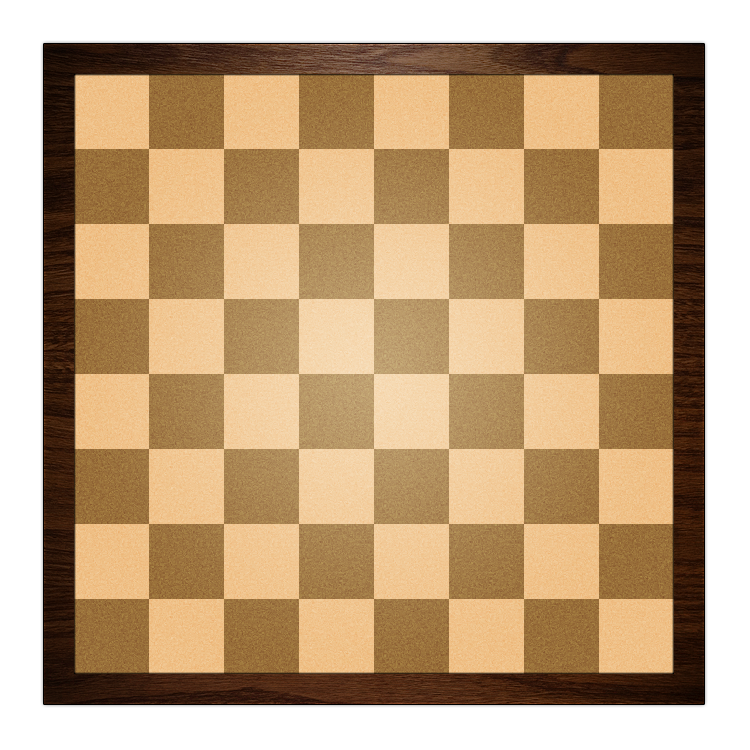
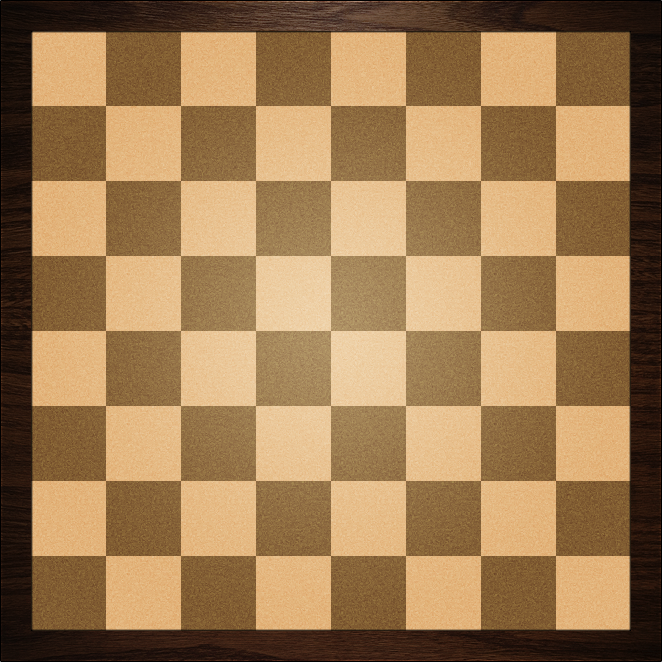
A little bit of styling

diff --git a/resources/style.css b/resources/style.css
@@ -287,40 +287,86 @@ body {
   color: #fff;
 }
 
-/* line 180, ../sass/style.scss */
-#board {
-  width: 750px;
-  height: 750px;
-  background: url("/resources/board-bg.png") 0px 0px no-repeat;
+/*
+    The game view
+*/
+/* line 188, ../sass/style.scss */
+.game .chat {
   position: absolute;
-  left: 50%;
-  top: 50%;
-  margin-top: -375px;
-  margin-left: -375px;
+  left: 0px;
+  top: 0px;
+  background: #9D9D9D;
+  bottom: 0px;
+  width: 300px;
+  height: 100%;
 }
-/* line 190, ../sass/style.scss */
-#board table {
-  margin-left: 75px;
+/* line 197, ../sass/style.scss */
+.game .chat .input {
+  position: absolute;
+  bottom: 10px;
+}
+/* line 203, ../sass/style.scss */
+.game #board {
+  position: absolute;
+  left: 300px;
+  height: 100%;
+  top: 0%;
+  right: 0%;
+}
+/* line 210, ../sass/style.scss */
+.game #board .wood {
+  position: relative;
+  left: 50%;
+  width: 600px;
+  height: 600px;
+  margin-left: -330px;
+  padding: 30px;
+  background: url("/resources/board-bg.png") 0px 0px no-repeat;
+}
+/* line 221, ../sass/style.scss */
+.game #waiting {
+  z-index: 1;
+  position: absolute;
+  width: 100%;
+  height: 100%;
+  top: 0px;
+  background: rgba(0, 0, 0, 0.5);
+}
+/* line 229, ../sass/style.scss */
+.game #waiting h1 {
+  text-align: center;
+  color: #fff;
+  font-size: 42px;
+  height: 200px;
+  width: 400px;
+  top: 50%;
+  left: 50%;
+  position: absolute;
+  margin-top: -100px;
+  margin-left: -200px;
 }
 
-/* line 195, ../sass/style.scss */
+/*
+    End of game view
+*/
+/* line 248, ../sass/style.scss */
 td, th {
   text-align: center;
   width: 75px;
   height: 75px;
 }
 
-/* line 201, ../sass/style.scss */
+/* line 254, ../sass/style.scss */
 .selected {
   background: green;
 }
 
-/* line 205, ../sass/style.scss */
+/* line 258, ../sass/style.scss */
 .movable {
   background: orange;
 }
 
-/* line 210, ../sass/style.scss */
+/* line 263, ../sass/style.scss */
 .hidden {
   display: none;
 }
@@ -328,7 +374,7 @@ td, th {
 /*
   forms 
 */
-/* line 218, ../sass/style.scss */
+/* line 271, ../sass/style.scss */
 .error_container {
   background: #b30a0a;
   margin: 20px 0px;
@@ -336,24 +382,24 @@ td, th {
   border: 2px solid black;
   color: white;
 }
-/* line 225, ../sass/style.scss */
+/* line 278, ../sass/style.scss */
 .error_container ul {
   text-align: left;
   padding-left: 20px;
   list-style: disc;
 }
 
-/* line 232, ../sass/style.scss */
+/* line 285, ../sass/style.scss */
 .no_errors {
   display: none;
 }
 
-/* line 236, ../sass/style.scss */
+/* line 289, ../sass/style.scss */
 .has_errors {
   display: block;
 }
 
-/* line 240, ../sass/style.scss */
+/* line 293, ../sass/style.scss */
 .button, input[type=submit] {
   width: auto;
   padding: 9px 15px;
@@ -369,44 +415,18 @@ td, th {
   -khtml-border-radius: 5px;
   border-radius: 5px;
 }
-/* line 250, ../sass/style.scss */
+/* line 303, ../sass/style.scss */
 .button:hover, input[type=submit]:hover {
   background: #617794;
 }
-/* line 254, ../sass/style.scss */
+/* line 307, ../sass/style.scss */
 .button:active, input[type=submit]:active {
   background: #6177CD;
 }
 
-/* line 259, ../sass/style.scss */
+/* line 312, ../sass/style.scss */
 .button {
   display: inline-block;
-}
-
-/*
-  Board styling 
-*/
-/* line 265, ../sass/style.scss */
-#waiting {
-  position: absolute;
-  width: 100%;
-  height: 100%;
-  top: 0px;
-  left: 0px;
-  background: rgba(0, 0, 0, 0.5);
-}
-/* line 273, ../sass/style.scss */
-#waiting h1 {
-  text-align: center;
-  color: #fff;
-  font-size: 42px;
-  height: 200px;
-  width: 400px;
-  top: 50%;
-  left: 50%;
-  position: absolute;
-  margin-top: -100px;
-  margin-left: -200px;
 }
 
 /*

diff --git a/sass/style.scss b/sass/style.scss
@@ -177,20 +177,73 @@ body {
     }
 }
 
-#board {
-    width: 750px;
-    height: 750px;
-    background: url("/resources/board-bg.png") 0px 0px no-repeat;
-    position: absolute;
-    left: 50%;
-    top: 50%;
-    margin-top: -375px;
-    margin-left: -375px;
+/*
+    The game view
+*/
+
+.game {
     
-    table {
-        margin-left: $brick_dimensions;
+    $sidebar-width: 300px;
+    
+    .chat {
+        position  : absolute;
+        left      : 0px;
+        top       : 0px;
+        background: #9D9D9D;
+        bottom    : 0px;
+        width     : $sidebar-width;
+        height    : 100%;
+        
+        .input {
+            position: absolute;
+            bottom  : 10px;
+        }
+    }
+    
+    #board {
+        position   : absolute;
+        left       : $sidebar-width;
+        height     : 100%;
+        top        : 0%;
+        right: 0%;
+
+        .wood {
+            position   : relative;
+            left       : 50%;
+            width      : 600px;
+            height     : 600px;
+            margin-left: -330px;
+            padding    : 30px;
+            background : url("/resources/board-bg.png") 0px 0px no-repeat;
+        }
+    }
+    
+    #waiting {
+        z-index   :1;
+        position  : absolute;
+        width     : 100%;
+        height    : 100%;
+        top       : 0px;
+        background: rgba(0, 0, 0, 0.5);
+
+        h1 {
+            text-align : center;
+            color      : #fff;
+            font-size  : 42px;
+            height     : 200px;
+            width      : 400px;
+            top        : 50%;
+            left       : 50%;
+            position   : absolute;
+            margin-top : -100px;
+            margin-left: -200px;
+        }
     }
 }
+
+/*
+    End of game view
+*/
 
 td, th {
     text-align: center;
@@ -257,32 +310,6 @@ td, th {
 }
 
 .button {display: inline-block;}
-
-/*
-  Board styling 
-*/
-
-#waiting {
-  position: absolute;
-  width: 100%;
-  height: 100%;
-  top: 0px;
-  left: 0px;
-  background: rgba(0, 0, 0, 0.5);
-  
-  h1 {
-    text-align: center;
-    color: #fff;
-    font-size: 42px;
-    height: 200px;
-    width: 400px;
-    top: 50%;
-    left: 50%;
-    position: absolute;
-    margin-top: -100px;
-    margin-left: -200px;
-  }
-}
 
 /*
     iPhone styles
